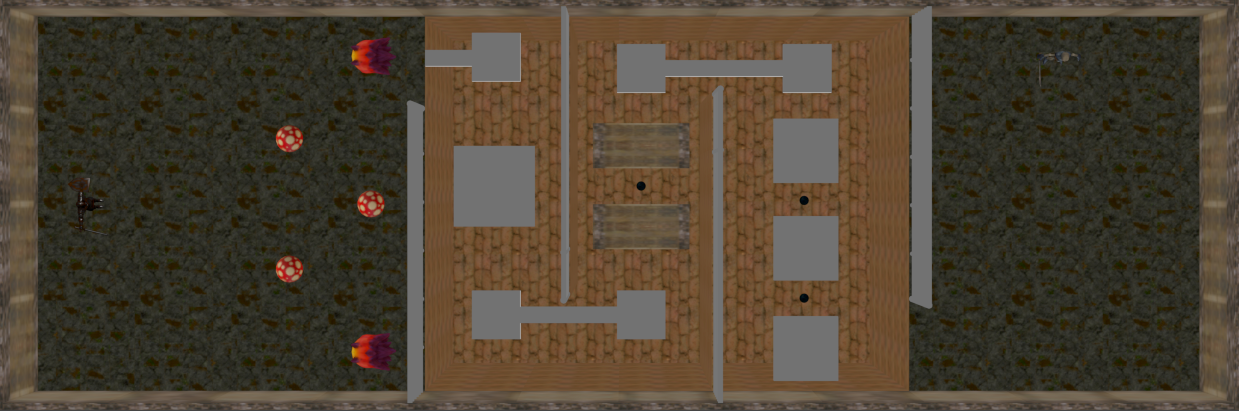
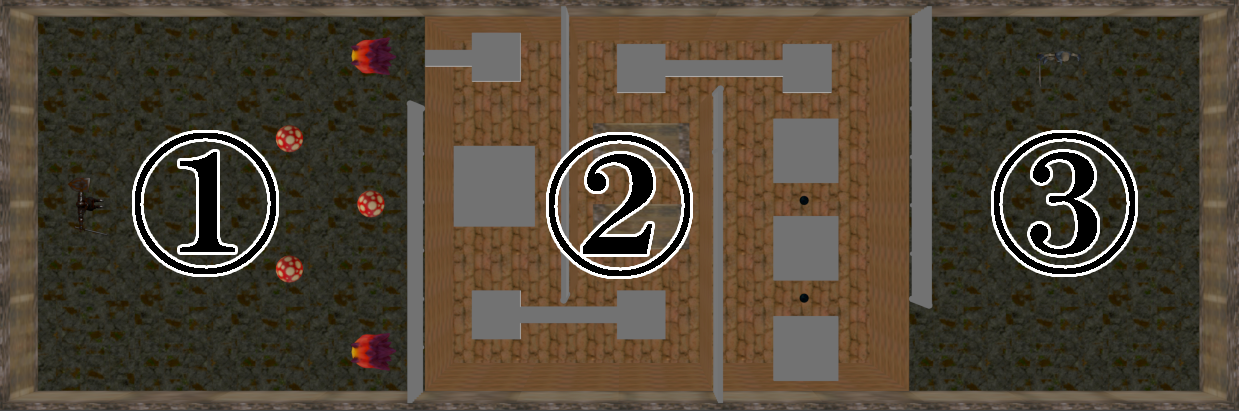
ポートフォリオ制作

Changed region(s): [[0.4294, 0.3212, 0.5827, 0.7007], [0.7974, 0.3212, 0.9201, 0.6715], [0.092, 0.292, 0.2454, 0.6715]]

diff --git a/README.md b/README.md
@@ -91,11 +91,19 @@
 <summary>追記したソースコード</summary>
 
   * PhysicsStaticObject.h
+    * SetRotation関数を追加
   * RenderingEngine.h
+    * m_grayscale変数を追加
   * DeferredLighting.fx
+    * 406行目～412行目のグレースケールの処理を追加
   * PBRLighting_struct.h
+    * 59行目のgrayscale変数を追加
 
 </details>
 
 ## __4. ステージ__
-  
+  ステージは以下の3つで構成されています。
+ ![ステージ構成](PortfolioImage/stage.png "ステージ構成")
+ ① 雑魚敵との戦闘
+ ② ステージギミックのあるアスレチックコース
+ ③ ボス戦
